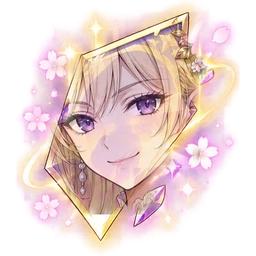
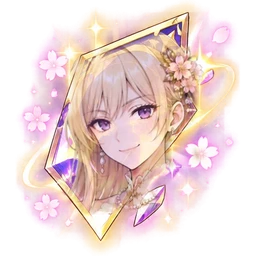
Beta 0.11.1: รูปใหม่ของเรนะ จัดตำแหน่งทุกหน้า รูปหน้าวงกลมซูมที่หน้า สติกเกอร์สาวน้อยหางม้า
Claude-Session: https://claude.ai/code/session_0124HQP4sUDhMLs2Xk3yL23P

Changed region(s): [[0.1875, 0.0938, 0.8125, 0.8438], [0.2188, 0.2188, 0.25, 0.2812], [0.75, 0.5938, 0.7812, 0.625]]

diff --git a/client/public/app.js b/client/public/app.js
@@ -37,6 +37,8 @@ const AV=['😎','🤠','🧑🎤','👧','🦊','🐱','🐰','🐻'];
 const myChar=()=>equipped('characters')||null;
 const myFrame=()=>{if(typeof skCharFrameOn==='function'&&skCharFrameOn())return 'char';const f=equipped('frames');return f&&f!=='none'?f:null;}; // 'char' = ขอใช้กรอบประจำตัวละคร (ปลด 4★ · เซิร์ฟเวอร์ตรวจดาว) // กรอบการ์ดที่ใส่อยู่ (ทุกคนในห้องเห็น)
 const av=(n,ch)=>{const skin=(SKIN_REGISTRY.characters||[]).find(x=>x.id===ch);if(skin&&skin.asset)return `<img class=avatar-img src="${esc(skin.asset)}" alt="${esc(skin.name||'ตัวละคร')}">`;let h=0;for(const k of String(n))h=(h*31+k.charCodeAt(0))|0;return AV[Math.abs(h)%AV.length]};
+// รูปหน้าแบบวงกลม (HUD / โปรไฟล์ / หน้าสรุป): ซูมไปที่หน้าตามกรอบ "table" ใน Character.config — รูปเต็มตัวทุกขนาดได้หน้าขนาดใกล้กัน
+const avFace=(n,ch)=>{const s=(SKIN_REGISTRY.characters||[]).find(x=>x.id===ch);if(!(s&&s.asset))return av(n,ch);const t=s.table||{},c=(v,d,a,b)=>{v=Number(v);return Number.isFinite(v)?Math.min(b,Math.max(a,v)):d;};return `<span class=av-fc style="--fx:${c(t.x,.5,0,1)};--fy:${c(t.top,0,0,.9)};--fz:${c(t.show,.4,.15,1)}"><img class=avatar-img src="${esc(s.asset)}" alt="${esc(s.name||'ตัวละคร')}"></span>`;};
 const myBg=()=>equipped('backgrounds')||null;
 const bgCss=id=>{const b=(SKIN_REGISTRY.backgrounds||[]).find(x=>x.id===id);if(!b)return '';return `background:${b.asset?`url('${b.asset}') center/cover`:(b.css||'none')};--ink:${b.ink||'#fff'};`};
 
@@ -61,7 +63,7 @@ function prevBox(kind, x) {
   if (kind === 'tables') return `<span class=pv-table style="--t1:${esc(x.bg || '#0f3d2a')};--t2:${esc(x.bg2 || '#0b2e20')}${x.asset ? ';background-image:url(' + esc(x.asset) + ')' : ''}"></span>`;
   return `<span class=pv-bg style="${esc(bgCss(x.id))}"></span>`;
 }
-const hud = back => `<div class=hud>${back ? `<button class=hud-back onclick="go('${back}')" aria-label="ย้อนกลับ">‹</button>` : `<button class=hud-who onclick="go('profile')"><span class=hud-av>${av(sv.name, myChar())}</span><b>${esc(sv.name || '')}</b></button>`}${window.Stamina ? Stamina.pill() : ''}<span class=coin-pill>🪙 ${sv.coins}</span>${window.DB && DB.enabled ? `<span class="coin-pill mc-pill" title="MCash">💎 ${sv.mcash || 0}</span>` : ''}</div>`;
+const hud = back => `<div class=hud>${back ? `<button class=hud-back onclick="go('${back}')" aria-label="ย้อนกลับ">‹</button>` : `<button class=hud-who onclick="go('profile')"><span class=hud-av>${avFace(sv.name, myChar())}</span><b>${esc(sv.name || '')}</b></button>`}${window.Stamina ? Stamina.pill() : ''}<span class=coin-pill>🪙 ${sv.coins}</span>${window.DB && DB.enabled ? `<span class="coin-pill mc-pill" title="MCash">💎 ${sv.mcash || 0}</span>` : ''}</div>`;
 const pgKind = b => (b.includes('class=plank') ? 'play' : b.includes('gtiles') ? 'games' : b.includes('scoreSum') ? 'create' : b.includes('class=ksec') ? (b.includes('namebox') ? 'profile' : 'shop') : '');
 const page2 = (title, body, back = 'home') => { $('app').className = ''; $('app').innerHTML = `<div class=pg data-pg="${pgKind(body)}">${hud(back)}<div class=pg-title><span>${title}</span></div><div class=pg-body>${body}</div></div>`; };
 function homeView() {
@@ -298,7 +300,7 @@ function resultOverlay() {
   const rows = S.P.map(p => ({ p, pt: R.pts[p.i], cd: c && c.delta ? c.delta[p.i] : 0 })).sort((x, y) => y.pt - x.pt);
   const rank = rows.findIndex(r => r.p.i === my) + 1, medal = ['🥇', '🥈', '🥉', '4⃣'];
   const nm = i => (i === my ? 'คุณ' : esc(S.P[i].n));
-  const ava = p => { const h = av(p.n, p.ch); return h.startsWith('<img') ? `<span class=rs-av>${h}</span>` : `<span class="rs-av rs-emo">${h}</span>`; };
+  const ava = p => { const h = av(p.n, p.ch); return h.startsWith('<img') ? `<span class=rs-av>${avFace(p.n, p.ch)}</span>` : `<span class="rs-av rs-emo">${h}</span>`; };
   const board = rows.map(({ p, pt, cd }, i) => `<div class="rs-row${p.i === my ? ' me' : ''}${R.k === p.i ? ' knk' : ''}"><b class=rs-rk>${medal[i] || i + 1}</b>${ava(p)}<div class=rs-who><b>${nm(p.i)}${R.k === p.i ? ' 👑' : ''}</b><span class=rs-chips>${(R.nt[p.i] || []).map(x => `<i>${esc(x)}</i>`).join('')}</span></div><div class=rs-pt>${pt}<small>แต้ม</small></div><div class="rs-cd ${cd > 0 ? 'pos' : cd < 0 ? 'neg' : ''}">${sgn(cd)}<small>ชิป</small></div></div>`).join('');
   const pay = c && c.lines && c.lines.length ? `<div class=rs-pay><p class=rs-sub>ชิปในโต๊ะ (ใช้จัดอันดับเท่านั้น ไม่ใช่เหรียญ)</p>${c.lines.map(l => `<div><span>${nm(l.f)} → ${nm(l.t)}</span><em>${esc(l.w)}</em><b>${l.a} ชิป</b></div>`).join('')}</div>` : '<p class=rs-none>ไม่มีรายการชิปตานี้</p>';
   const shuf = shufflePanel(), sh = lob && lob.shuffle, need = !!(sh && sh.needed && !sh.ready);

diff --git a/client/public/theme2.js b/client/public/theme2.js
@@ -59,7 +59,7 @@
     const scene = app.querySelector('.scene'); if (!scene || scene.querySelector('.rv')) return;
     const P = DBP(), name = (P && P.display_name) || (typeof sv !== 'undefined' && sv.name) || 'ผู้เล่น';
     const coins = P ? P.coins : (typeof sv !== 'undefined' ? sv.coins : 0);
-    const av = (app.querySelector('.hud-av img') || {}).src || '';
+    const avEl = app.querySelector('.hud-av .av-fc'), av = (app.querySelector('.hud-av img') || {}).src || '';   // .av-fc = รูปซูมหน้า (avFace)
     const title = (P && P.title) || '';
     const lv = window.Progress ? Progress.level() : { level: 1, into: 0, need: 100 }, lvPct = Math.min(100, Math.round((lv.into / Math.max(1, lv.need)) * 100));
     const nq = (document.querySelector('.hud-q i') || {}).textContent || '';
@@ -69,7 +69,7 @@
       <button class="rv-me rv-me2" onclick="go('profile')" aria-label="โปรไฟล์">
         <span class="rv-plate"><b>${E(name)}</b><small>${E(title || 'ยังไม่ได้ตั้งฉายา')}</small></span>
         <span class="rv-lvbar"><i><u style="width:${lvPct}%"></u></i><b><em>LV</em>${lv.level}</b><small>${N(lv.into)}/${N(lv.need)}</small></span>
-        <span class="rv-av2"><span>${av ? `<img src="${E(av)}" alt="">` : ''}</span></span></button>
+        <span class="rv-av2"><span>${avEl ? avEl.outerHTML : av ? `<img src="${E(av)}" alt="">` : ''}</span></span></button>
       <div class="rv-top">
         ${window.Stamina ? Stamina.pill() : ''}<span class="rv-cur"><img src="${KIT}coin.webp" alt="">${N(coins)}<i onclick="go('shop')">${ic('plus')}</i></span>
         ${P ? `<span class="rv-cur"><img src="${KIT}gem.webp" alt="">${N(P.mcash)}<i onclick="go('shop')">${ic('plus')}</i></span>` : ''}

diff --git a/client/public/games.js b/client/public/games.js
@@ -57,7 +57,7 @@ function gxOver() {
   if (resGid !== S.gid) { resGid = S.gid; resTab = 0; }
   const r = S.res, c = r.coin || { delta: [], lines: [], stake: S.stake }, my = S.my, md = (c.delta && c.delta[my]) || 0, win = md > 0, lose = md < 0;
   const medal = ['🥇', '🥈', '🥉', '4⃣'], nm = i => (i === my ? 'คุณ' : esc(S.P[i].n));
-  const ava = p => { const h = av(p.n, p.ch); return h.startsWith('<img') ? `<span class=rs-av>${h}</span>` : `<span class="rs-av rs-emo">${h}</span>`; };
+  const ava = p => { const h = av(p.n, p.ch); return h.startsWith('<img') ? `<span class=rs-av>${typeof avFace === 'function' ? avFace(p.n, p.ch) : h}</span>` : `<span class="rs-av rs-emo">${h}</span>`; };
   // ข้อความผลของแต่ละคน (ใช้ร่วมกันทุกเกม — ดูจากฟิลด์ที่เกมนั้นส่งมา)
   const label = x => x.dealer ? '👑 เจ้ามือ' : x.result === 'win' ? '✅ ชนะ' + (x.mult > 1 ? ' ×' + x.mult : '') : x.result === 'lose' ? '❌ แพ้' + (x.mult > 1 ? ' ×' + x.mult : '') : x.result === 'tie' ? '🤝 เสมอ' : x.loser ? '💀 แพ้' : x.folded ? '🏳 หมอบ' : x.win ? '🏆 ชนะ' : x.order ? 'รอดที่ ' + x.order : '';
   const rows = (r.rows || []).map(x => ({ x, cd: (c.delta && c.delta[x.i]) || 0 })).sort((a, b) => b.cd - a.cd);

diff --git a/client/public/theme2.css b/client/public/theme2.css
@@ -961,3 +961,8 @@
 .seat-fx.up{border-color:#5dff8f44}.seat-fx.down{border-color:#ff5d6c44}
 @keyframes seatFx{0%{opacity:0;transform:translate(-50%,-60%) scale(.8)}10%{opacity:1;transform:translate(-50%,-100%) scale(1.05)}18%{transform:translate(-50%,-100%) scale(1)}80%{opacity:1;transform:translate(-50%,-150%)}100%{opacity:0;transform:translate(-50%,-180%)}}
 @media (prefers-reduced-motion:reduce){.seat-fx{animation:none}}
+
+/* รูปหน้าแบบวงกลม (avFace ใน app.js): ซูมที่หน้าตามกรอบ table ของตัวละคร */
+.av-fc{position:absolute;inset:0;overflow:hidden;border-radius:50%;display:block}
+.av-fc .avatar-img{position:absolute!important;max-width:none!important;width:auto!important;height:calc(100% / var(--fz))!important;left:50%!important;top:calc(-100% * var(--fy) / var(--fz))!important;transform:translateX(calc(-100% * var(--fx)));object-fit:fill!important;border-radius:0!important}
+.hud-av,.pv-av,.rs-av{position:relative}

diff --git a/client/public/pages2.js b/client/public/pages2.js
@@ -52,7 +52,7 @@
     const uname = DBON() ? '@' + E(DB.P.username) : 'เล่นแบบไม่ล็อกอิน';
     const body = `<div class=pv>
       <section class="pv-card pv-id">
-        <div class=pv-av><img src="${E(ch && ch.asset || '')}" alt=""><button class=pv-avbtn onclick="invOpen('characters')">เปลี่ยน</button></div>
+        <div class=pv-av>${typeof avFace === 'function' && ch ? avFace(nick, ch.id) : `<img src="${E(ch && ch.asset || '')}" alt="">`}<button class=pv-avbtn onclick="invOpen('characters')">เปลี่ยน</button></div>
         <b class=pv-nm>${E(nick)}</b>${window.Progress ? lvBar() : ''}<span class=pv-tt>${title ? E(title) : 'ยังไม่ได้ตั้งฉายา'}</span><small class=pv-un>${uname}</small>
         ${statsBox()}
       </section>

diff --git a/client/public/version.js b/client/public/version.js
@@ -1,2 +1,2 @@
 // เลขเวอร์ชันของ client — แก้ที่นี่ที่เดียว (แสดงที่หน้าแรก) แล้วอัปให้ตรงกับ version ใน client/package.json และ server/package.json
-window.DUMMY_VERSION = 'Beta 0.11.0';
+window.DUMMY_VERSION = 'Beta 0.11.1';

diff --git a/scripts/cut-sticker.py b/scripts/cut-sticker.py
@@ -1,0 +1,17 @@
+# ตัดพื้นหลังเทาของสติกเกอร์จาก Canva (มีขอบขาวกั้น) → พื้นโปร่งใส แล้วบันทึก webp
+import sys
+from PIL import Image,ImageDraw,ImageFilter
+src,dst=sys.argv[1],sys.argv[2]
+im=Image.open(src).convert('RGBA'); w,h=im.size
+mask=Image.new('L',(w,h),0)
+rgb=im.convert('RGB')
+for seed in [(0,0),(w-1,0),(0,h-1),(w-1,h-1),(w//2,0),(w//2,h-1),(0,h//2),(w-1,h//2)]:
+    ImageDraw.floodfill(rgb,seed,(255,0,255),thresh=28)
+px=rgb.load(); m=mask.load()
+for y in range(h):
+    for x in range(w):
+        if px[x,y]!=(255,0,255): m[x,y]=255
+mask=mask.filter(ImageFilter.MinFilter(3)).filter(ImageFilter.GaussianBlur(0.6))
+im.putalpha(mask); bb=mask.getbbox(); im=im.crop(bb)
+s=max(im.size); out=Image.new('RGBA',(s,s),(0,0,0,0)); out.alpha_composite(im,((s-im.size[0])//2,(s-im.size[1])//2))
+out.save(dst,quality=92); print(dst,out.size)

diff --git a/scripts/make-shards.py b/scripts/make-shards.py
@@ -7,7 +7,7 @@ import glob, os, json
 from PIL import Image, ImageFilter, ImageChops
 ROOT = os.path.join(os.path.dirname(__file__), '..')
 FACE = {
-  'rina-01': (0.37, 0.03, 0.59, 0.25), 'arya-01': (0.34, 0.12, 0.64, 0.42), 'rena-01': (0.35, 0.10, 0.67, 0.42),
+  'rina-01': (0.37, 0.03, 0.59, 0.25), 'arya-01': (0.34, 0.12, 0.64, 0.42), 'rena-01': (0.355, 0.0, 0.615, 0.26),
   'rei-r': (0.45, 0.08, 0.75, 0.40), 'haru-r': (0.35, 0.10, 0.67, 0.42), 'ken-r': (0.29, 0.04, 0.57, 0.32),
   'leo-r': (0.22, 0.13, 0.54, 0.45), 'yuna-r': (0.28, 0.08, 0.54, 0.34), 'miyu-r': (0.40, 0.38, 0.68, 0.66),
 }

diff --git a/docs/PATCHNOTES.md b/docs/PATCHNOTES.md
@@ -2,6 +2,14 @@
 
 > สร้างจาก `client/public/patchnotes.json` (ไฟล์เดียวกับที่แสดงในเกม) · เลขตัวท้าย = แก้จุกจิก · เลขกลาง = ระบบใหม่
 
+## Beta 0.11.1 — รูปใหม่ของเรนะ · รูปหน้าวงกลมซูมที่หน้า
+_2026-10-31_
+
+**ปรับปรุง**
+- เรนะ: เปลี่ยนเป็นรูปเต็มตัวชุดใหม่ (ชุดเดรสดำ-ขาวลายซากุระ) จัดตำแหน่งใหม่ทุกหน้า ทั้งหน้าแรก ห้องรอ บนโต๊ะ ช่องเก็บของ ร้านค้า และเศษตัวละคร
+- รูปหน้าวงกลม (มุมบนซ้าย หน้าโปรไฟล์ หน้าสรุปผล) ซูมไปที่หน้าของตัวละคร ทุกตัวได้หน้าขนาดใกล้กัน
+- สาวน้อยหางม้า: สติกเกอร์อีโมตรูปวาดจริง 3 แบบ (ดีใจ หัวเราะ ตกใจ)
+
 ## Beta 0.11.0 — ของปลดดาว: อีโมตบนโต๊ะ · สติกเกอร์ตัวละคร · กรอบประจำตัว
 _2026-10-31_
 
